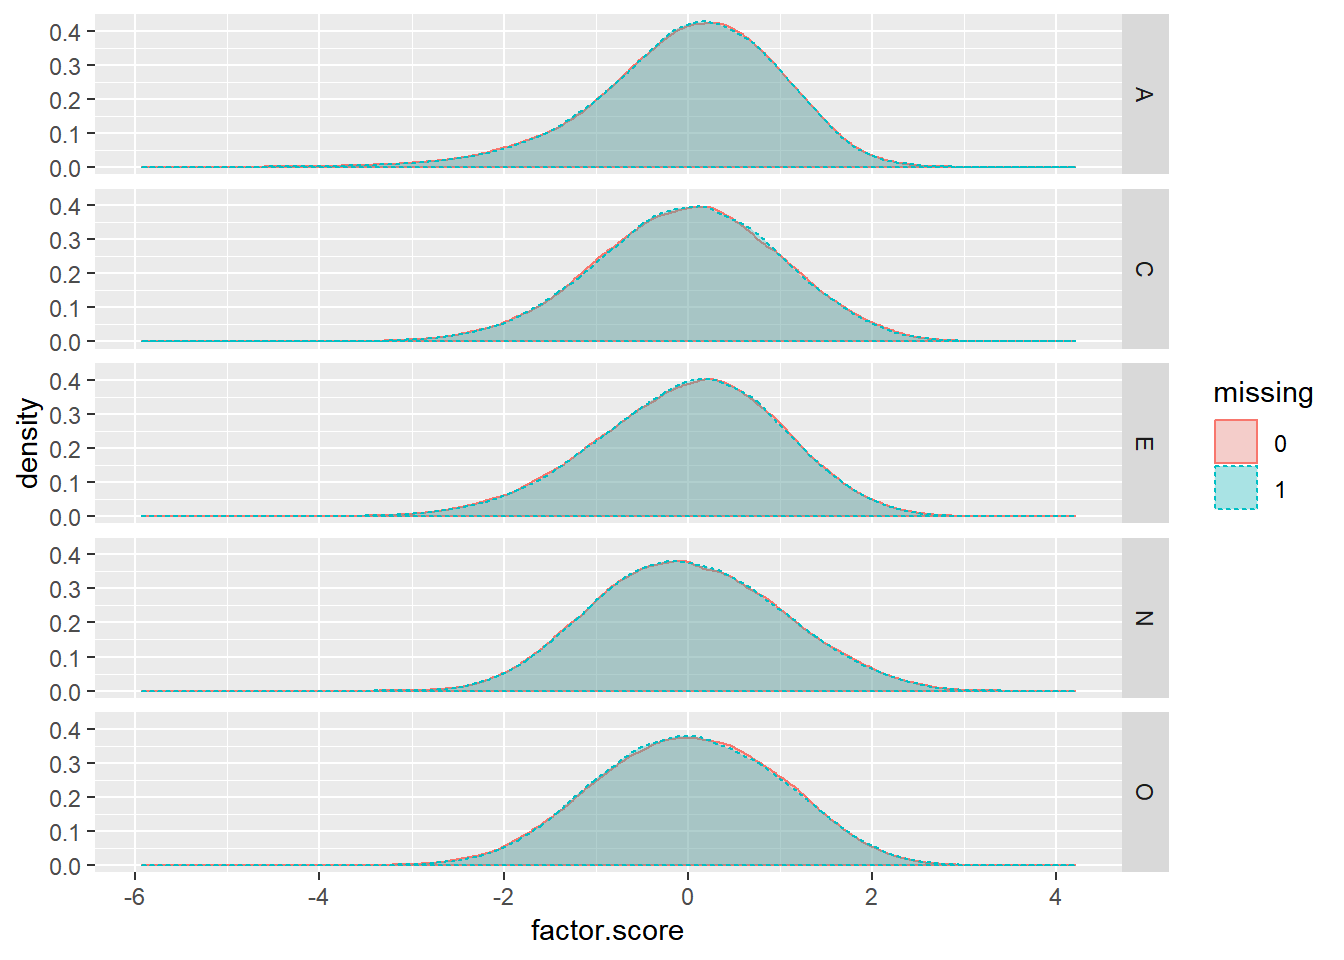
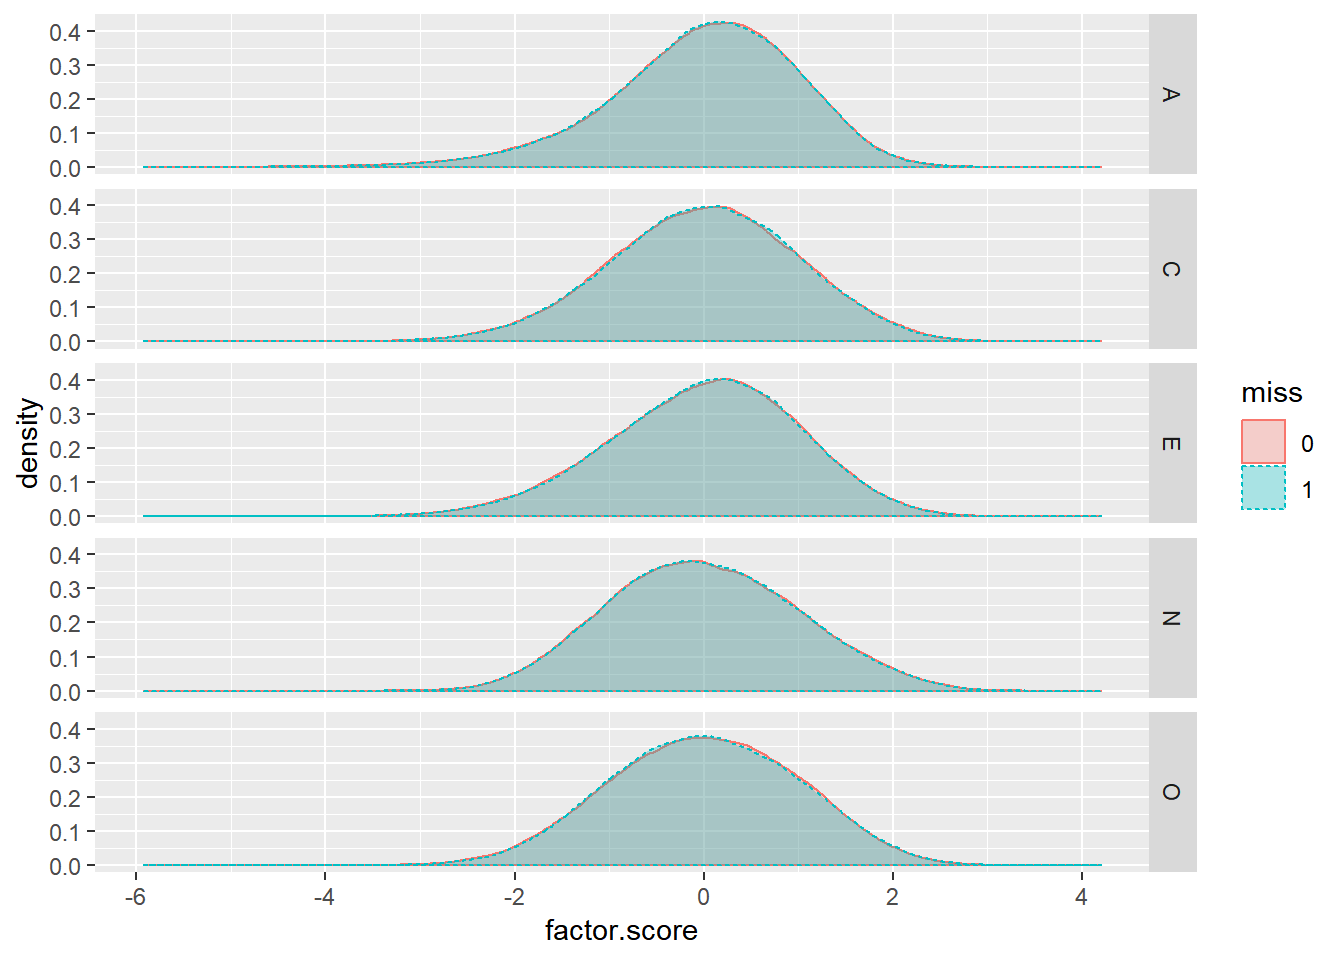
update

diff --git a/docs/analyze_IPIP300imcomplete_data.html b/docs/analyze_IPIP300imcomplete_data.html
@@ -399,7 +399,7 @@ n.used.data &lt;- 0
 n.incomplete &lt;- 0
 
 # 回答ミスの数を記録する配列
-count.missing &lt;- numeric(n.data)
+count.miss &lt;- numeric(n.data)
 
 for (idx in 1:n.data){
   
@@ -409,7 +409,7 @@ for (idx in 1:n.data){
   
   tmp.numeric &lt;- as.numeric( unlist(strsplit(tmp,&quot;&quot;)))
   
-  count.missing[idx] &lt;- sum(tmp.numeric == 0)
+  count.miss[idx] &lt;- sum(tmp.numeric == 0)
   
   if (!any(tmp.numeric == 0)) {
      # 一つでも無回答 (0) がある回答者
@@ -439,22 +439,22 @@ cat(&quot;無回答項目無し回答者数:&quot;, n.used.data,
 <h2>無回答項目数の分布をチェックする</h2>
 <p>無回答項目数の分布を見てみます。</p>
 <pre class="r"><code># 回答ミス数ごとの回答者数分布を棒グラフで見る
-barplot(table(count.missing),
+barplot(table(count.miss),
         xlab = &quot;Number of missed items&quot;, ylab = &quot;Frequency&quot;)</code></pre>
 <p><img src="analyze_IPIP300imcomplete_data_files/figure-html/unnamed-chunk-3-1.png" width="672" /></p>
 <p>無回答項目が無い回答者が一番多く，そこから無回答項目の数が増えるごとに 回答者はほぼ半分ずつ，指数関数的に減少しているようです。</p>
-<p>ここで，どの回答者もすべて同じだけの確率で回答ミスを犯す という可能性がないか考えてみます。回答ミスがなかった回答者は たまたまミスをしなかっただけで，その特性は回答ミスをした回答者と何ら 変わらない，という可能性です。もしそれが事実だとすると， 回答ミスがあった回答者がそうでない回答者とパーソナリティという特性において も何か違いがある，ということはあまり期待できません。</p>
-<p>回答ミスをする確率がどの質問項目，どの回答者も 一定であり，これを<span class="math inline">\(\lambda/300\)</span> とすると(300は項目数)， 個人ごとの無回答項目数の分布はパラメータ<span class="math inline">\(\lambda\)</span>の ポアソン分布に近似的に従います (例えば<a href="https://mathtrain.jp/poisson">こちら</a>を参照)。</p>
+<p>ここで，どの回答者もすべて同じだけの確率で回答ミスを犯す という可能性がないか考えてみます。回答ミスがなかった回答者は たまたまミスをしなかっただけで，その特性は回答ミスをした回答者と何ら 変わらない，という可能性です。もしそれが事実だとすると， 回答ミスがあった回答者がそうでない回答者とパーソナリティにおいて も何か違いがある，ということはあまり期待できません。</p>
+<p>回答ミスをする確率がどの質問項目，どの回答者も 一定であり，これを<span class="math inline">\(\lambda/300\)</span> とすると(300は項目数)， 個人ごとの無回答項目数の分布はパラメータ<span class="math inline">\(\lambda\)</span>の ポアソン分布に近似的に従います (例えば <a href="https://mathtrain.jp/poisson">こちら</a>を参照)。</p>
 <p>ポアソン分布をこの無回答項目数にフィットしてみましょう。 上の無回答項目から最尤推定でフィットしたポアソン分布を実線と〇で示します。</p>
 <pre class="r"><code># ポアソン分布の最尤推定値はデータの平均値
-lambda_est &lt;- mean(count.missing)
+lambda_est &lt;- mean(count.miss)
 
-mp &lt;- barplot(table(count.missing)/length(count.missing),
+mp &lt;- barplot(table(count.miss)/length(count.miss),
         xlab = &quot;Number of missed items&quot;, ylab = &quot;probability&quot;)
 
 lines(mp, dpois(0:10, lambda_est),type = &quot;o&quot;)</code></pre>
 <p><img src="analyze_IPIP300imcomplete_data_files/figure-html/unnamed-chunk-4-1.png" width="672" /></p>
-<p>明らかにポアソン分布はこのデータには当てはまっていません。 全回答者がそれぞれの項目で独立に同じ確率で回答ミスをしていたと 考えるには，回答ミスがゼロの回答者が多すぎるようです。 やはり，回答ミスを全くしない回答者と多少でもする回答者は 何かが異なるのかもしれません。 回答者は回答ミスをするようなタイプかそうでないタイプにまずわかれ， 回答ミスをするタイプはその中である確率にしたがって回答ミスをする，という プロセスが考えられます。 このようなプロセスを仮定する統計モデルとして，ハードルモデル (hurdle model) が知られています。(参考:<span class="citation">[@nozmaさんの記事]</span>( <a href="https://qiita.com/nozma/items/52211b1bacaa8a898164" class="uri">https://qiita.com/nozma/items/52211b1bacaa8a898164</a>)) ここではそのようなモデルまでは検討しませんが， 回答ミスの全くない回答者とそうでない回答者が何か違うかもしれないという 可能性が示唆されたので，パーソナリティにも違いがあるか見ていきましょう。</p>
+<p>明らかにポアソン分布はこのデータには当てはまっていません。 全回答者がそれぞれの項目で独立に同じ確率で回答ミスをしていたと 考えるには，回答ミスがゼロの回答者が多すぎるようです。 やはり，回答ミスを全くしない回答者と多少でもする回答者は 何かが異なるのかもしれません。 回答者は回答ミスをするようなタイプかそうでないタイプに一定の確率で分かれ， 回答ミスをするタイプはその中である確率にしたがって回答ミスをする，という プロセスが考えられます。 このようなプロセスを仮定する統計モデルとして，ハードルモデル (hurdle model) が知られています。(参考: <span class="citation">[@nozmaさんの記事]</span>(<a href="https://qiita.com/nozma/items/52211b1bacaa8a898164" class="uri">https://qiita.com/nozma/items/52211b1bacaa8a898164</a>)) ここではそのようなモデルまでは検討しませんが， 回答ミスの全くない回答者とそうでない回答者が何か違うかもしれないという 可能性が示唆されたので，パーソナリティにも違いがあるか見ていきましょう。</p>
 <p>(※上の無回答項目数の分布は幾何分布の方が当てはまりはよさそうですが， 幾何分布で仮定されている生成プロセスはこのデータと対応づけられないため， ここでは考えませんでした。)</p>
 </div>
 <div class="section level2">
@@ -499,27 +499,27 @@ df_sc &lt;- df_sc[,c(&quot;N&quot;,&quot;E&quot;,&quot;O&quot;,&quot;A&quot;,&qu
 names(df_sc_ic) &lt;- c(&quot;E&quot;,&quot;N&quot;,&quot;C&quot;,&quot;A&quot;,&quot;O&quot;)
 df_sc_ic &lt;- df_sc_ic[,c(&quot;N&quot;,&quot;E&quot;,&quot;O&quot;,&quot;A&quot;,&quot;C&quot;)]
 
-df_sc &lt;- df_sc %&gt;% mutate(missing = 0)
-df_sc_ic &lt;- df_sc_ic %&gt;% mutate(missing = 1)
+df_sc &lt;- df_sc %&gt;% mutate(miss = 0)
+df_sc_ic &lt;- df_sc_ic %&gt;% mutate(miss = 1)
 df_sc &lt;- rbind(df_sc, df_sc_ic)
-df_sc$missing &lt;- as.factor(df_sc$missing)</code></pre>
+df_sc$miss &lt;- as.factor(df_sc$miss)</code></pre>
 </div>
 </div>
 <div class="section level2">
 <h2>因子スコアの比較</h2>
 <p>回答ミスの有無で各因子スコアの周辺分布を比較してみます。</p>
 <pre class="r"><code>df_sc_g &lt;- df_sc %&gt;% tidyr::gather(key = domain, 
-                                   value = factor.score, -missing)
+                                   value = factor.score, -miss)
 g &lt;- ggplot(df_sc_g, aes(x=factor.score)) + 
-  geom_density(aes(colour=missing, fill=missing, 
-                   linetype=missing), alpha = 0.3) + 
+  geom_density(aes(colour=miss, fill=miss, 
+                   linetype=miss), alpha = 0.3) + 
   facet_grid(domain~.)
 g</code></pre>
 <p><img src="analyze_IPIP300imcomplete_data_files/figure-html/unnamed-chunk-9-1.png" width="672" /></p>
 <p>回答ミスなしの回答者 (ピンク)と 回答ミスありの回答者 (緑)の分布はほぼ完全に重なりました。 周辺分布を見る限りは，回答ミスの有無が パーソナリティの5因子に与える影響はなさそうです。</p>
 <p>分布が重なっているので，回答ミスのない回答者は 平均的に誠実性が高い，といったようなことはなさそうです。</p>
 <p>2次元の周辺分布も見てみましょう。</p>
-<pre class="r"><code>ggp &lt;- ggpairs(df_sc, aes(colour=missing, alpha = 0.5), 
+<pre class="r"><code>ggp &lt;- ggpairs(df_sc, aes(colour=miss, alpha = 0.5), 
                upper = list(continuous=&#39;blank&#39;), 
                lower=list(continuous=&#39;density&#39;) )
 print(ggp)</code></pre>
